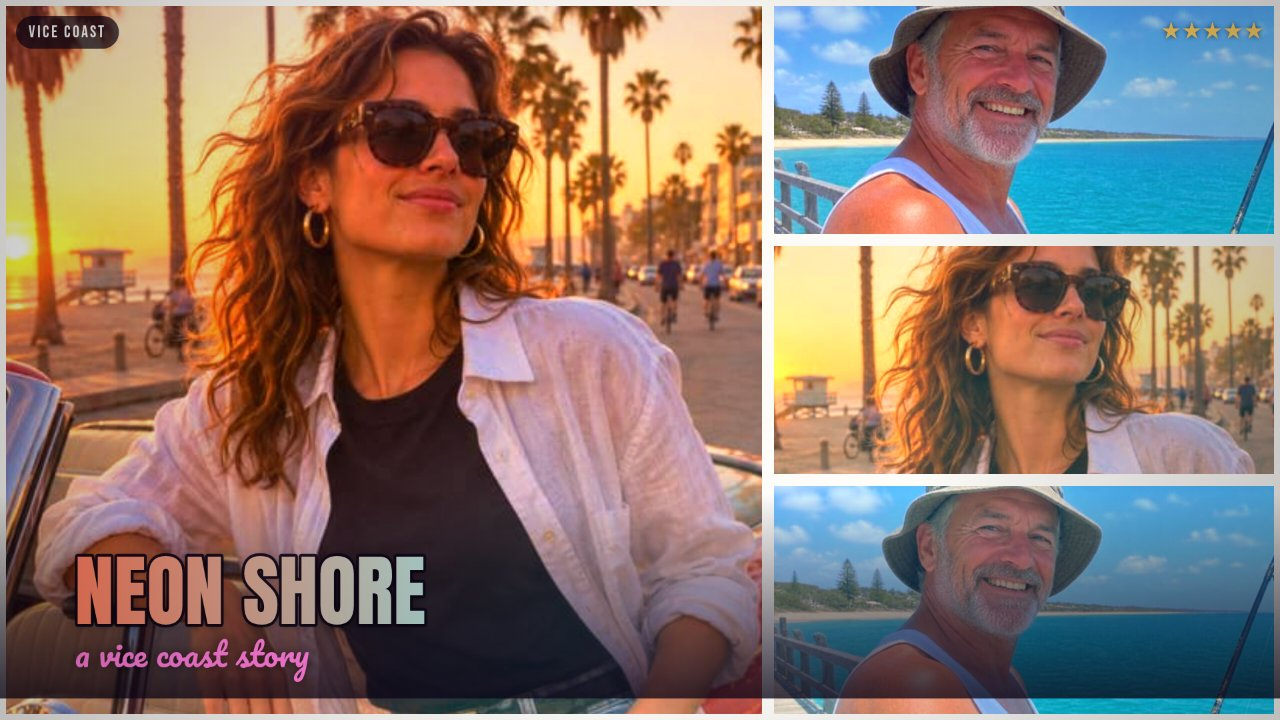
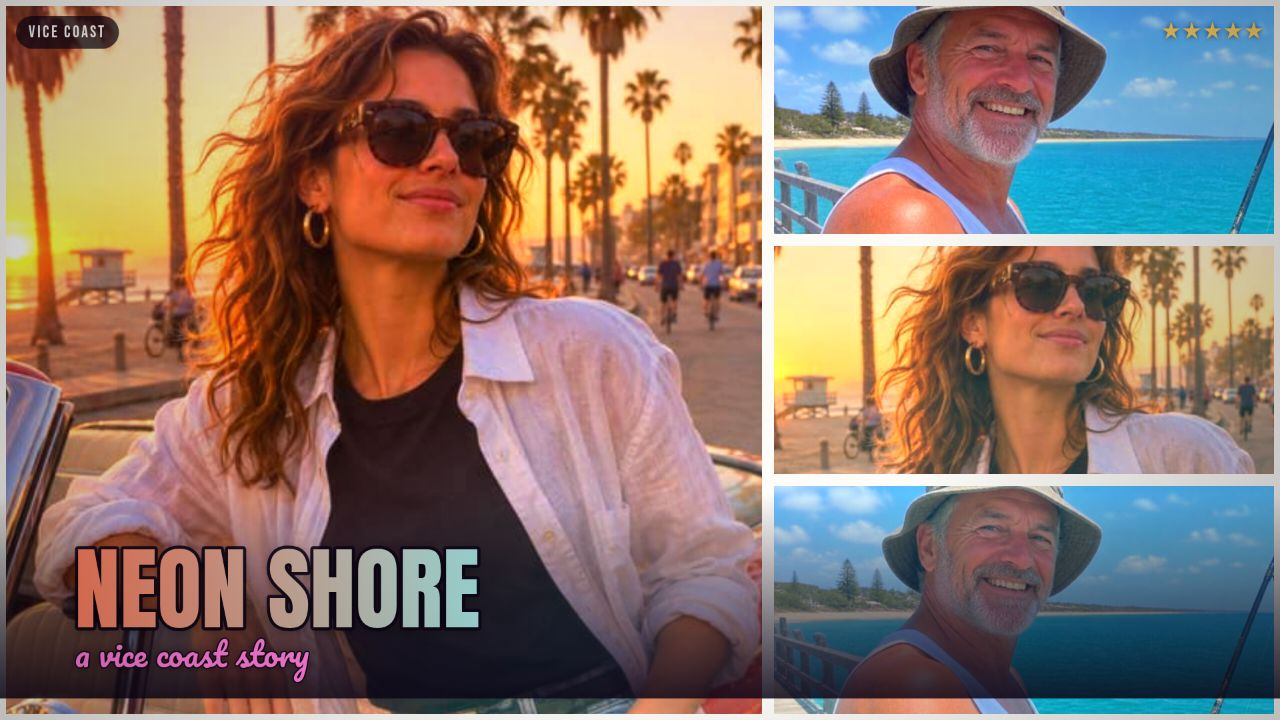
Round 2: live-recorded rebuild + title legibility polish

Changed region(s): [[0.0625, 0.7333, 0.375, 0.9472]]

diff --git a/app/src/cover.js b/app/src/cover.js
@@ -1,12 +1,18 @@
-// Palm Sunset Cover Studio — the cover engine.
+// Palm Sunset Cover Studio — the cover engine (round 2).
 //
-// Draws a GTA-poster-style multi-panel cover onto any 2D canvas from a plain
-// state object: pick a layout, a colour grade and a caption, and the engine
-// composes the panels, the lettering, the grain and the vignette. The same
-// function renders the live preview and the exported PNG, so what you see is
-// exactly what you share. No Rockstar art, logo or font is used anywhere:
-// the lettering is Anton, Pacifico and Bebas Neue, all under the SIL Open
-// Font License, vendored under app/fonts/.
+// Draws a GTA-poster-style multi-panel cover onto any 2D canvas from a
+// plain state object: pick a layout, a colour grade and a caption, and the
+// engine composes the panels, the lettering, the grain and the vignette.
+// The same function renders the live preview and the exported PNG, so what
+// you see is exactly what you share. No Rockstar art, logo or font is used
+// anywhere: the lettering is Anton, Pacifico and Bebas Neue, all under the
+// SIL Open Font License, vendored under app/fonts/.
+//
+// Round 2 polish — title legibility at small sizes: the title now starts
+// larger (0.60 of its zone instead of 0.52), the subtitle carries the same
+// dark outline as the title, and the scrim behind the lettering is deeper
+// (0.86 instead of 0.78), so the words still read when the cover is shown
+// at ~300 px wide.
 
 export const LAYOUTS = {
   'hero-trio': {
@@ -150,7 +156,7 @@ export function defaultCoverState() {
     panels: Array.from({ length: 8 }, (_, i) => ({
       photo: i % 2,
       zoom: 1.12 + (i % 3) * 0.09,
-      ox: (i % 2 === 0 ? -0.04 : 0.04),
+      ox: i % 2 === 0 ? -0.04 : 0.04,
       oy: 0,
     })),
   };
@@ -216,7 +222,10 @@ function applyGradeWashes(ctx, grade, w, h) {
   }
 }
 
-/** Fits a one-line title into its zone and draws it with outline + fill. */
+/** Fits a one-line title into its zone and draws it with outline + fill.
+ * Round 2: the title starts at 0.60 of the zone height (was 0.52) and the
+ * scrim behind it is deeper (0.86, was 0.78); the subtitle now gets the
+ * same dark outline as the title instead of a soft shadow alone. */
 function drawTitleBlock(ctx, state, zone, w, h) {
   const grade = GRADES[state.grade];
   const zx = zone.x * w;
@@ -236,7 +245,7 @@ function drawTitleBlock(ctx, state, zone, w, h) {
   } else if (state.titlePos === 'bottom' || !zone.block) {
     const scrim = ctx.createLinearGradient(0, zy - zh * 0.35, 0, zy + zh);
     scrim.addColorStop(0, 'rgba(12,6,24,0)');
-    scrim.addColorStop(1, 'rgba(12,6,24,0.78)');
+    scrim.addColorStop(1, 'rgba(12,6,24,0.86)');
     ctx.fillStyle = scrim;
     ctx.fillRect(0, zy - zh * 0.35, w, zy + zh - (zy - zh * 0.35));
   }
@@ -247,7 +256,7 @@ function drawTitleBlock(ctx, state, zone, w, h) {
 
   if (title) {
     const family = state.titleFont === 'bebas' ? '"Bebas Neue"' : 'Anton';
-    let size = zh * (subtitle ? 0.52 : 0.68);
+    let size = zh * (subtitle ? 0.6 : 0.72);
     ctx.font = `${size}px ${family}`;
     while (ctx.measureText(title).width > zw * 0.96 && size > 10) {
       size -= 2;
@@ -278,17 +287,22 @@ function drawTitleBlock(ctx, state, zone, w, h) {
   if (subtitle) {
     // The subtitle shrinks to fit its zone, like the title: a long line in
     // a narrow title block (the mosaic's centre cell) must never spill over
-    // the neighbouring photos.
-    let size = Math.max(12, zh * 0.22);
+    // the neighbouring photos. Round 2: it also gets a dark outline, so the
+    // script lettering stays readable over bright sand and sky.
+    let size = Math.max(14, zh * 0.22);
     ctx.font = `${size}px Pacifico, cursive`;
     while (ctx.measureText(subtitle).width > zw * 0.96 && size > 10) {
       size -= 2;
       ctx.font = `${size}px Pacifico, cursive`;
     }
+    ctx.lineJoin = 'round';
+    ctx.lineWidth = Math.max(2, size * 0.08);
+    ctx.strokeStyle = 'rgba(16,6,26,0.85)';
+    const sy = zy + zh * (title ? 0.74 : 0.5);
+    ctx.strokeText(subtitle, alignX, sy);
     ctx.fillStyle = grade.script;
     ctx.shadowColor = 'rgba(0,0,0,0.5)';
     ctx.shadowBlur = size * 0.25;
-    const sy = zy + zh * (title ? 0.74 : 0.5);
     ctx.fillText(subtitle, alignX, sy);
     ctx.shadowBlur = 0;
   }

diff --git a/main.ts b/main.ts
@@ -1,17 +1,20 @@
-// Palm Sunset Cover Studio — a gta6-cover-art-01 entry (Node 22, standard
-// library only). The app is this directory's app/ folder: plain static files
-// a desktop browser loads offline (app/index.html and its ES modules, the
-// Anton / Pacifico / Bebas Neue fonts vendored under app/fonts/, no library
-// and no network request). The program hands the app in: it copies app/ and
-// screenshots/ from beside this file to /output and writes
-// /output/dossier.json, the summary the judge reads, with the vendored
-// make.fun library. The cover maker itself lives in app/src/cover.js (six
-// multi-panel layouts, five sunset and neon colour grades, gradient poster
-// lettering, grain and vignette) and app/src/main.js (the editor: photos in,
-// panels dragged and zoomed, PNG out in 1080 x 1080, 1080 x 1350 and
-// 1920 x 1080). The four screenshots in screenshots/ are the app's own
-// drawings — a landscape exported cover first, then the editor with a photo
-// loaded, a portrait cover and a square cover.
+// Palm Sunset Cover Studio — a gta6-cover-art-01 entry, round 2 (Node 22,
+// standard library only). The app is this directory's app/ folder: plain
+// static files a desktop browser loads offline (app/index.html and its ES
+// modules, the Anton / Pacifico / Bebas Neue fonts vendored under
+// app/fonts/, no library and no network request). The program hands the app
+// in: it copies app/ and screenshots/ from beside this file to /output and
+// writes /output/dossier.json, the summary the judge reads, with the
+// vendored make.fun library. The cover maker itself lives in
+// app/src/cover.js (six multi-panel layouts, five sunset and neon colour
+// grades, gradient poster lettering, grain and vignette) and
+// app/src/main.js (the editor: photos in, panels dragged and zoomed, PNG
+// out in 1080 x 1080, 1080 x 1350 and 1920 x 1080). The four screenshots
+// in screenshots/ are the app's own drawings — a landscape exported cover
+// first, then the editor with a photo loaded, a portrait cover and a square
+// cover. Round 2 rebuilt every text file in a fresh live-recorded session
+// and polished the cover lettering so the title and subtitle still read at
+// ~300 px wide (bigger title, outlined subtitle, deeper scrim).
 //
 // Serve it locally with `node serve.ts`, then open http://localhost:8080.
 // Outside the grader's container, MAKEFUN_OUTPUT_DIR stands in for /output:

diff --git a/serve.ts b/serve.ts
@@ -1,12 +1,12 @@
-// A tiny static server for app/ (Node 22, standard library only), so the
-// cover maker can be tried locally without a build step: `node serve.ts`
-// serves app/ on http://localhost:8080 (or --port <n>). It sends the MIME
-// types an offline web app needs — HTML, modules, CSS, sample photos and the
-// vendored TTF fonts — refuses any path outside app/, and otherwise does
-// nothing clever: a development convenience, not a web server for the
-// internet. Palm Sunset Cover Studio's editor loads its fonts and samples
-// from these same routes, so a 404 here shows up at once as a missing font
-// or a blank panel while testing.
+// A tiny static server for app/ (round 2, Node 22, standard library
+// only), so the cover maker can be tried locally without a build step:
+// `node serve.ts` serves app/ on http://localhost:8080 (or --port <n>).
+// It sends the MIME types an offline web app needs — HTML, modules, CSS,
+// sample photos and the vendored TTF fonts — refuses any path outside app/,
+// and otherwise does nothing clever: a development convenience, not a web
+// server for the internet. Palm Sunset Cover Studio's editor loads its
+// fonts and samples from these same routes, so a 404 here shows up at once
+// as a missing font or a blank panel while testing.
 import { createReadStream, statSync } from 'node:fs';
 import { createServer } from 'node:http';
 import { extname, join, normalize, resolve, sep } from 'node:path';

diff --git a/app/src/shots.js b/app/src/shots.js
@@ -1,6 +1,6 @@
-// Fixed scenes for screenshots: ?shot=cover shows one exported cover full
-// frame (the app's own drawing, at the size the query names), ?shot=editor
-// shows the editor with a photo loaded. `photo` picks a sample
+// Fixed scenes for screenshots (round 2): ?shot=cover shows one exported
+// cover full frame (the app's own drawing, at the size the query names),
+// ?shot=editor shows the editor with a photo loaded. `photo` picks a sample
 // (samples/<photo>.jpg) or `both`; `caption` and `subtitle` the words;
 // `layout`, `grade`, `size` (WxH) and `stars` shape the cover.
 // window.__shotReady is set once the cover is painted and the fonts are in.

diff --git a/app/src/main.js b/app/src/main.js
@@ -1,4 +1,4 @@
-// Palm Sunset Cover Studio — the editor.
+// Palm Sunset Cover Studio — the editor (round 2).
 //
 // Wires the page: photos in, layout and grade picked, caption typed, panels
 // dragged and zoomed on the live preview, PNG out in three post sizes. The

diff --git a/README.md b/README.md
@@ -6,6 +6,8 @@
 
 Palm Sunset Cover Studio — an offline, GTA 6-style cover-art maker. Pick from 6 multi-panel layouts, grade with 5 sunset and neon looks, drag/zoom/crop each panel, edit captions, and export PNG covers at 1080×1080, 1080×1350, or 1920×1080. All art is original — no Rockstar assets.
 
+Round 2 polish: the cover lettering now stays readable at small sizes — a larger title, an outlined subtitle, and a deeper scrim behind the words, so the cover still reads at ~300 px wide.
+
 ## Run it
 
 ```sh
